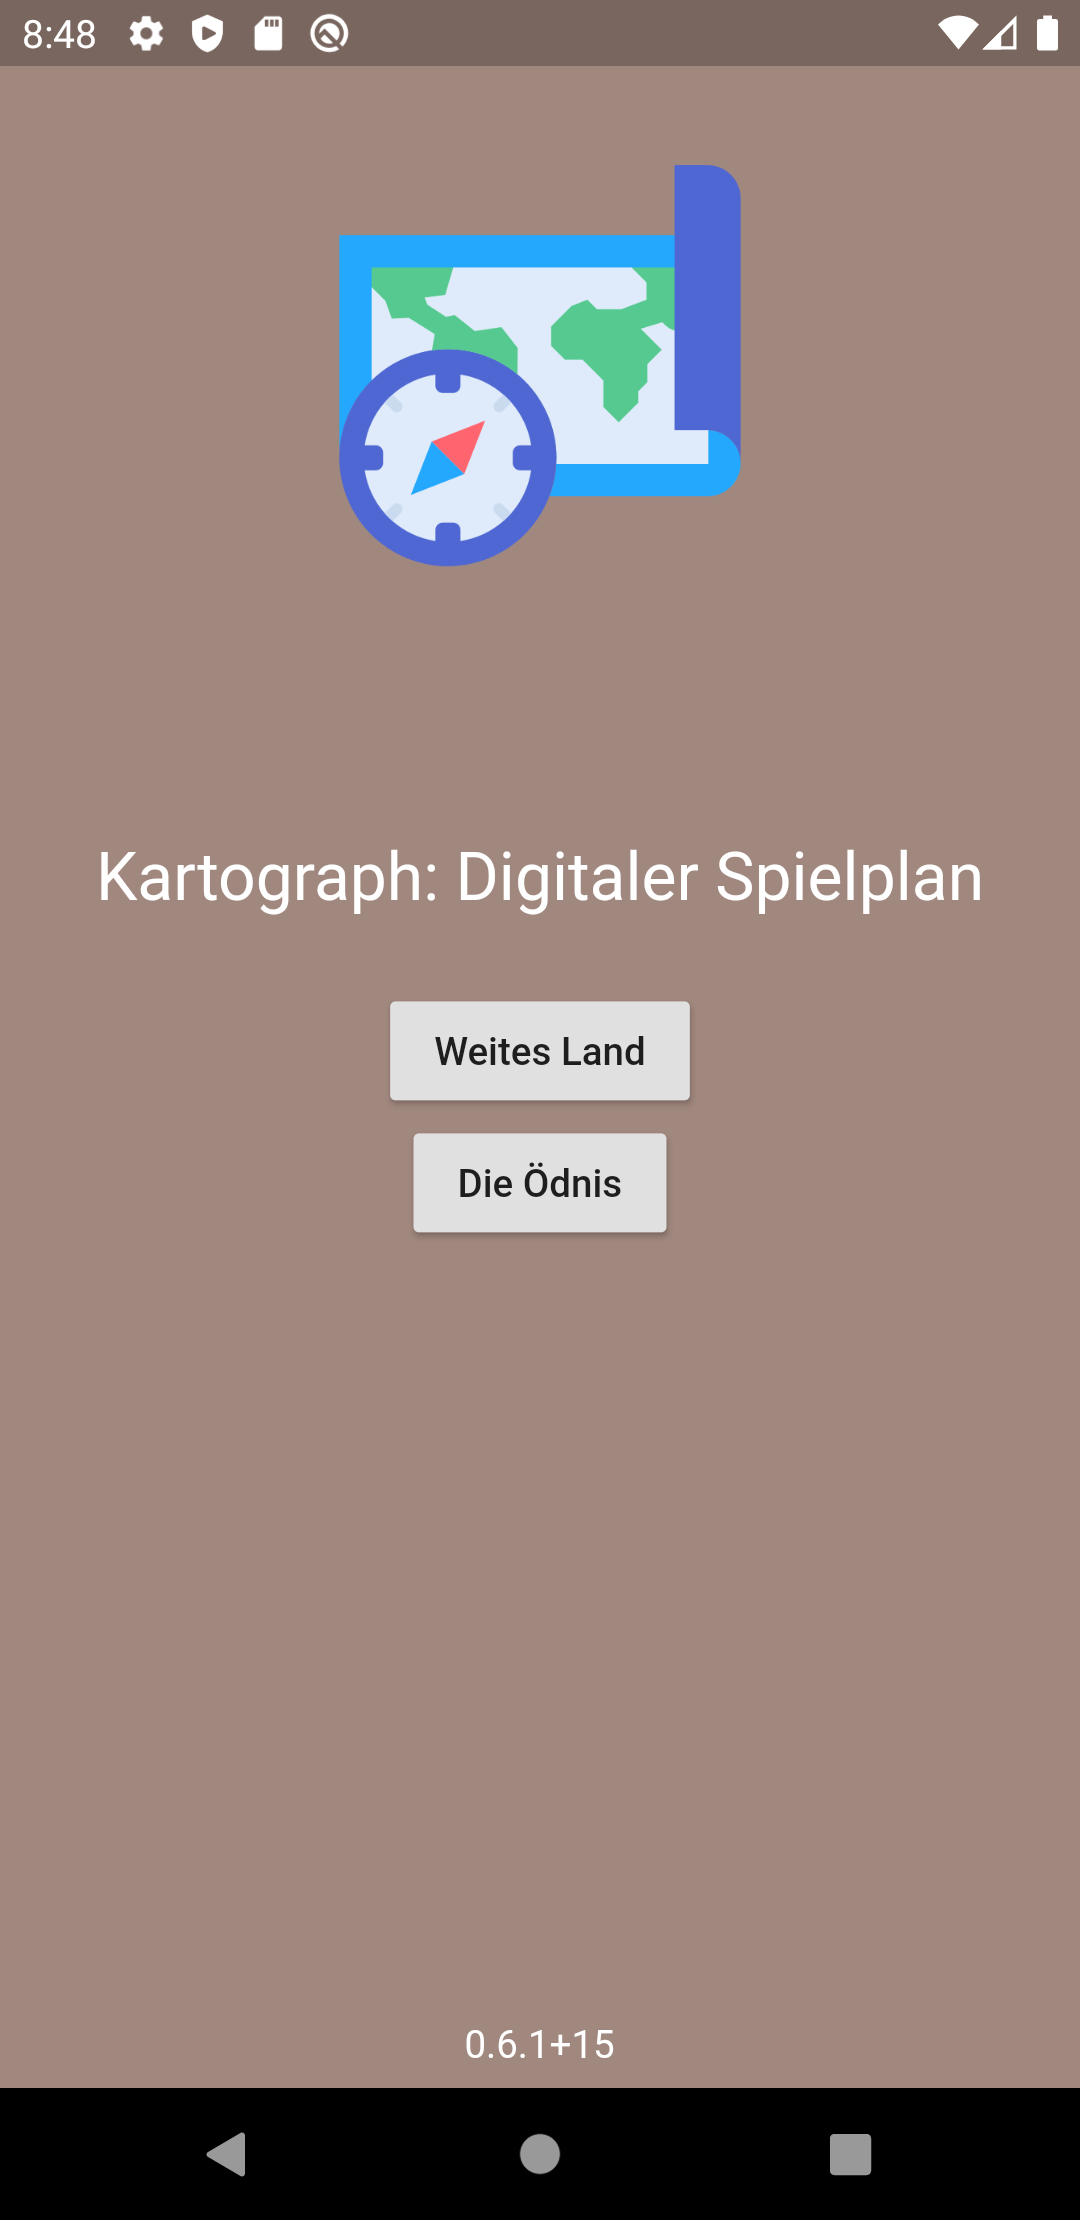
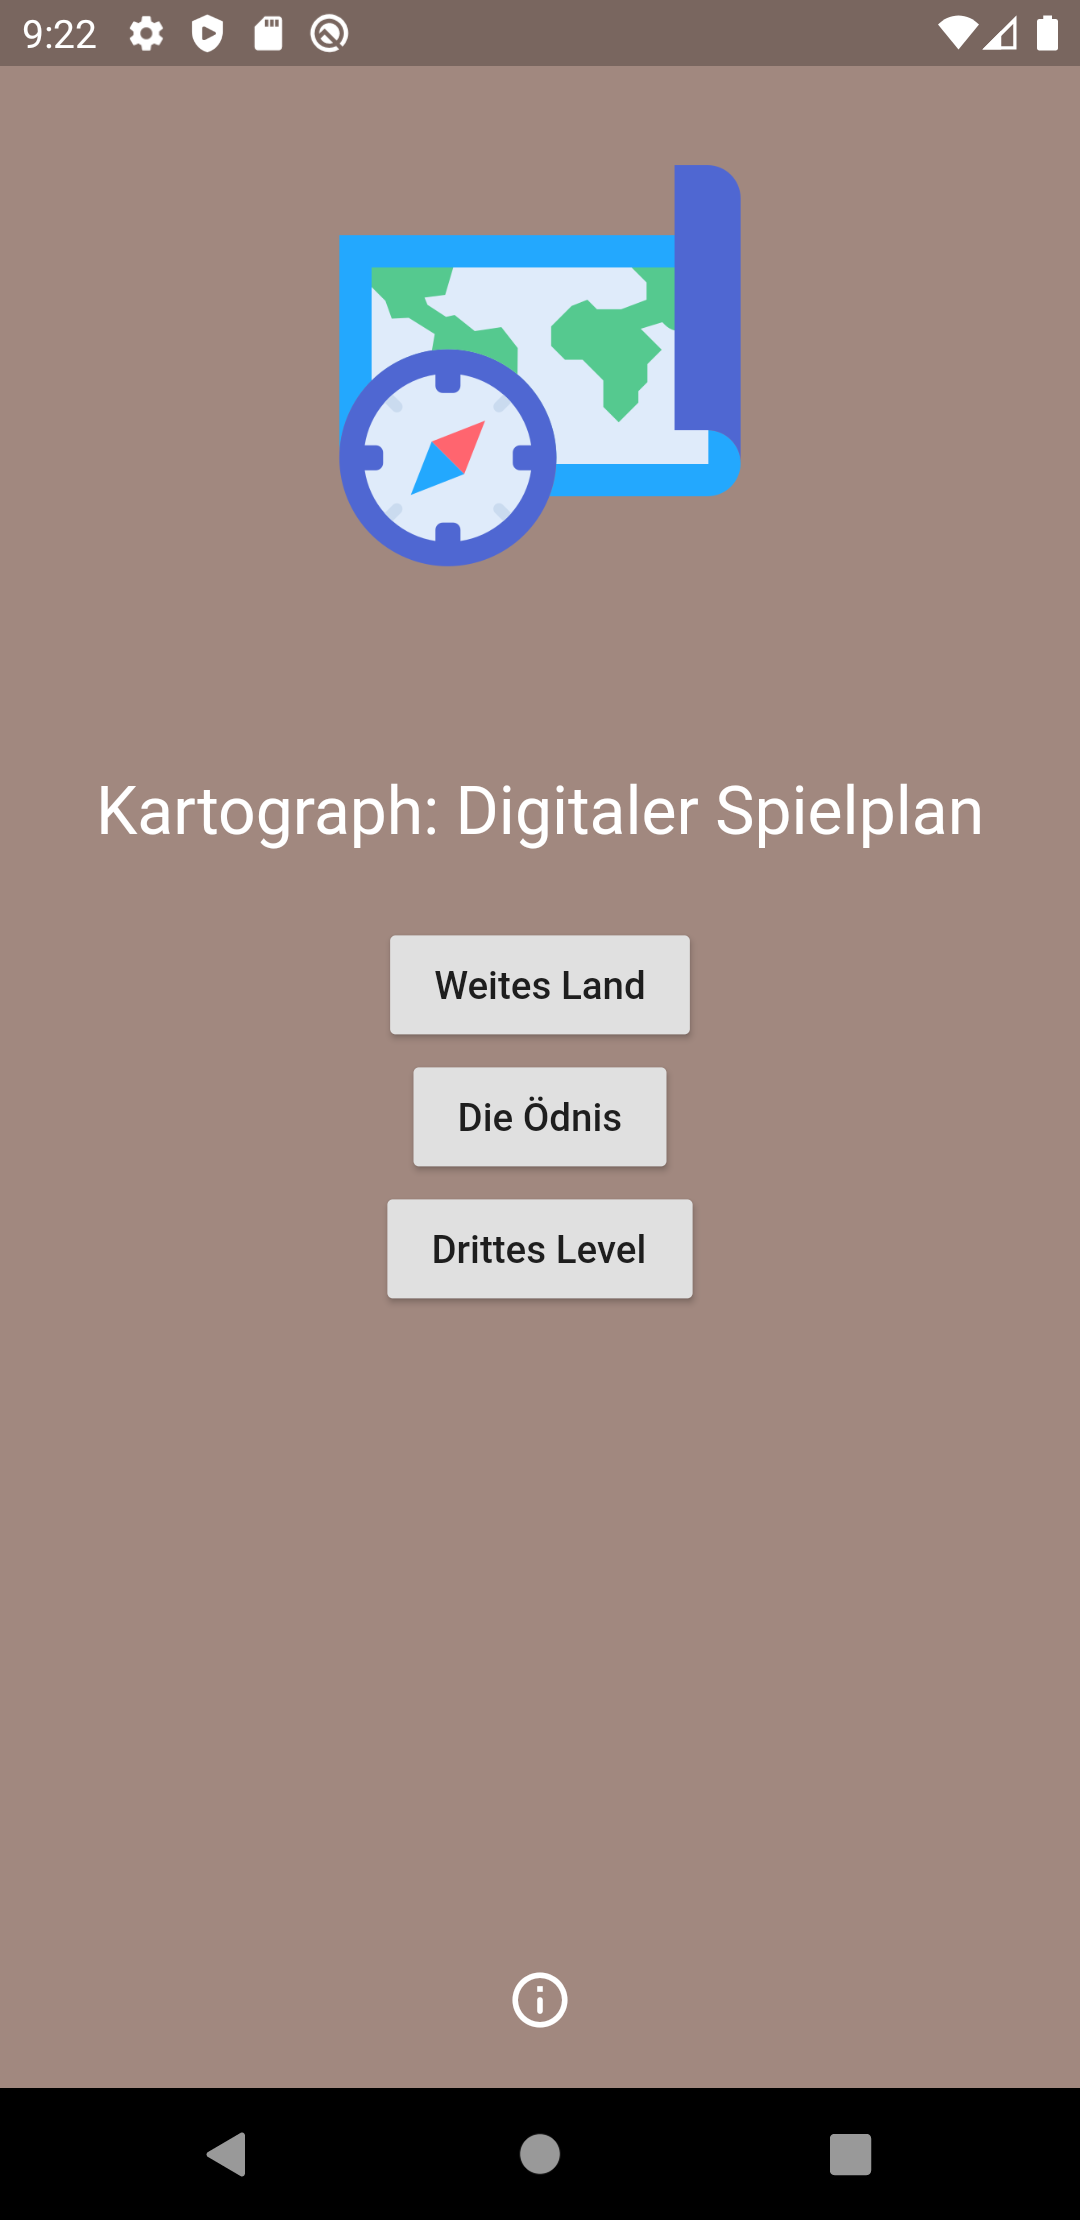
add new screenshots

Changed region(s): [[0.0917, 0.3419, 0.9167, 0.5905], [0.4278, 0.8703, 0.5806, 0.9324], [0.0306, 0.0, 0.0917, 0.0311]]

diff --git a/lib/gameboard/start_page.dart b/lib/gameboard/start_page.dart
@@ -5,9 +5,8 @@ import 'package:kartograph_digital_note/gameboard/game_board.dart';
 import 'package:package_info/package_info.dart';
 
 class StartPage extends StatelessWidget {
-  Future<String> _getPackage() async {
-    PackageInfo packageInfo = await PackageInfo.fromPlatform();
-    return '${packageInfo.version}+${packageInfo.buildNumber}';
+  Future<PackageInfo> _getPackage() async {
+    return await PackageInfo.fromPlatform();
   }
 
   @override
@@ -17,6 +16,7 @@ class StartPage extends StatelessWidget {
       Navigator.push(
           context, MaterialPageRoute(builder: (context) => GameBoard()));
     }
+
     return Container(
       padding: const EdgeInsets.symmetric(vertical: 8.0),
       child: Stack(
@@ -57,19 +57,29 @@ class StartPage extends StatelessWidget {
             mainAxisAlignment: MainAxisAlignment.end,
             crossAxisAlignment: CrossAxisAlignment.center,
             children: [
-              FutureBuilder(
-                future: _getPackage(),
-                builder: (context, snapshot) => snapshot.hasData
-                    ? Text(
-                        snapshot.data,
-                        style: TextStyle(
-                          color: Colors.white,
-                        ),
-                      )
-                    : Text(''),
+              IconButton(
+                icon: Icon(
+                  Icons.info_outline_rounded,
+                  color: Colors.white,
+                ),
+                onPressed: () => showDialog(
+                  context: context,
+                  builder: (context) => FutureBuilder(
+                    future: _getPackage(),
+                    builder: (context, AsyncSnapshot<PackageInfo> snapshot) =>
+                        AboutDialog(
+                      applicationName: snapshot.data.appName,
+                      applicationVersion: '${snapshot.data.version}',
+                      applicationIcon: Image.asset(
+                        'assets/navigation.png',
+                        width: 50,
+                      ),
+                    ),
+                  ),
+                ),
               ),
             ],
-          )
+          ),
         ],
       ),
     );
